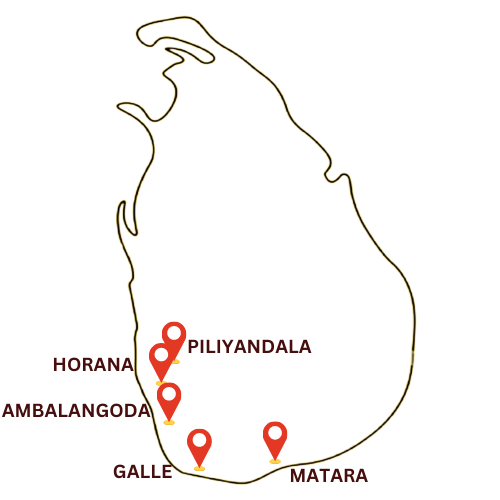
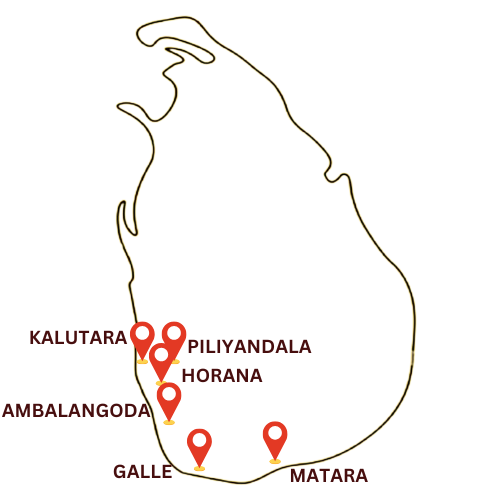
Branch Update
Update

Changed region(s): [[0.06, 0.63, 0.33, 0.75], [0.36, 0.72, 0.54, 0.78]]

diff --git a/src/components/ContactUsPage.vue b/src/components/ContactUsPage.vue
@@ -31,6 +31,8 @@
             <div class="point" v-tooltip:start="'Matara College'" :style="{ top: '79%', left: '55%' }" @click="navigateTo('/about/matara')"></div>
             <!-- Piliyandala Branch -->
             <div class="point" v-tooltip:start="'Piliyandala College'" :style="{ top: '63%', left: '35%' }" @click="navigateTo('/about/piliyandala')"></div>
+            <!-- Kalutara Branch -->
+            <div class="point" v-tooltip:start="'Kalutara College'" :style="{ top: '63%', left: '28%' }"></div>
             <!-- Horana Branch -->
             <div class="point" v-tooltip:start="'Horana College'" :style="{ top: '67%', left: '32%' }" @click="navigateTo('/about/horana')"></div>
         </div>
